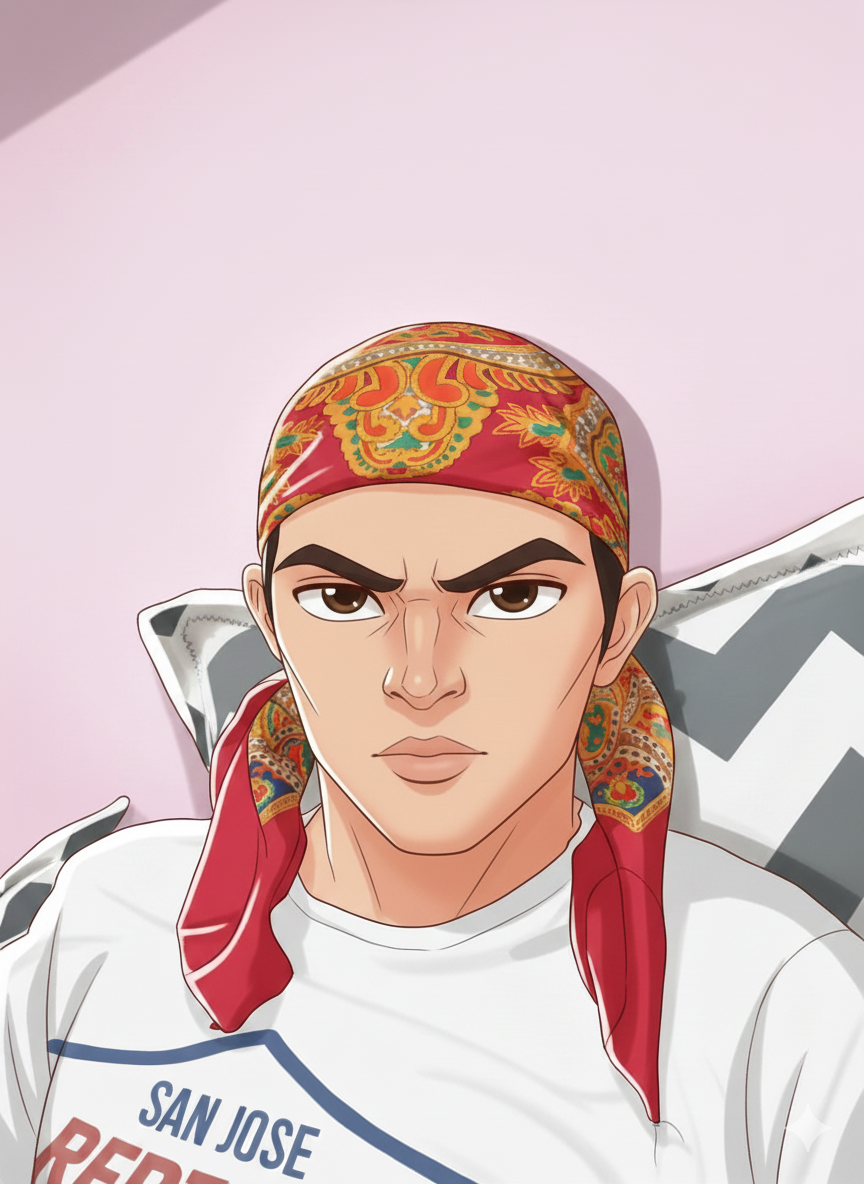
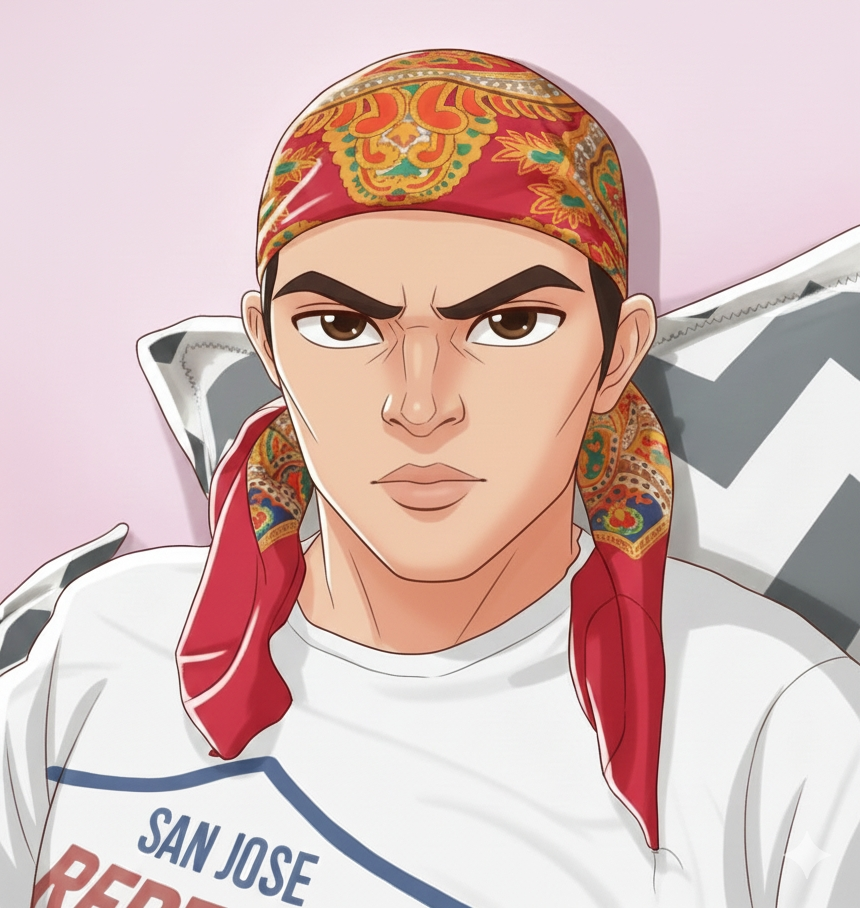
delet account section/footer

diff --git a/accounts.html b/accounts.html
@@ -50,46 +50,45 @@
 
     <article>
 
-    <nav class="d-flex align-items-center w-100 input-box navbar navbar-expand-md g-0">
+    <nav class="d-flex align-items-center input-box navbar navbar-expand-md g-0">
 
         <button class="navbar-toggler" type="button" data-bs-toggle="collapse" data-bs-target="#nav">
-      <span class="ti ti-menu-2 "></span>
-    </button>
+            <span class="ti ti-menu-2 mb-1"></span>
+        </button>
 
-        <button type="submit" class="border-0 bg-transparent"><i class="ti ti-search vx-fs-cus-1 me-3"></i></button>
+        <button type="submit" class="border-0 bg-transparent mt-1"><i class="ti ti-search vx-fs-4 ms-3 me-2"></i></button>
         <div class="collapse navbar-collapse" id="nav">
-            <input class="input-box border-0 me-auto" type="text" placeholder="Search [CTRL + K]">
+            <input class="input-box border-0 me-auto " type="text" placeholder="Search [CTRL + K]">
         </div>
         
-        
-        <ul class="list-unstyled d-flex align-items-center mb-1">
-            <li><a href="#"><i class="ti ti-language-hiragana vx-fs-cus-1 rounded-circle nav-icon"></i></a></li>
-            <li><a href="#"><i class="ti ti-sun vx-fs-cus-1 rounded-circle nav-icon"></i></a></li>
-            <li><a href="#"><i class="ti ti-layout-grid-remove vx-fs-cus-1 rounded-circle nav-icon"></i></a></li>
-            <li><a href="#"><i class="ti ti-bell vx-fs-cus-1 rounded-circle nav-icon"></i></a></li>
-            <li><a href="#"><img class="rounded-circle" width="39" height="39" src="assets/images/profile.jpg" alt=""></a></li>
-        </ul>
+        <ul class="list-unstyled d-flex align-items-center mb-1 mt-1 navigation">
+            <li><a href="#"><i class="ti ti-language-hiragana vx-fs-4 rounded-circle nav-icon"></i></a></li>
+            <li><a href="#"><i class="ti ti-sun vx-fs-4 rounded-circle nav-icon"></i></a></li>
+            <li><a href="#"><i class="ti ti-layout-grid-remove vx-fs-4 rounded-circle nav-icon"></i></a></li>
+            <li><a href="#"><i class="ti ti-bell vx-fs-4 rounded-circle nav-icon"></i></a></li>
+            <li><a href="#" class="ms-2"><img class="rounded-circle" width="42em" src="assets/images/profile.jpg" alt=""></a></li></li>
+        </ul>     
        
     </nav>
 
     <nav class="d-flex flex-column flex-lg-row mt-3 mt-lg-0">
-        <a href="account-form.html" class="accent-btn border-0 vx-fw-500 my-1 my-lg-3 vx-fs-2 d-flex flex-row align-items-center justify-content-center active">
+        <a href="account-form.html" class="accent-btn border-0 vx-fw-500 my-1 my-lg-3 vx-fs-2 d-flex flex-row align-items-center justify-content-center me-2 active">
             <i class="ti ti-users me-2"></i>
             Accounts
         </a>
-        <a href="security.html" class="accent-btn border-0 vx-fw-500 my-1 my-lg-3 vx-fs-2 d-flex flex-row align-items-center justify-content-center">
+        <a href="security.html" class="accent-btn border-0 vx-fw-500 my-1 my-lg-3 vx-fs-2 d-flex flex-row align-items-center justify-content-center me-2">
             <i class="ti ti-lock me-2"></i>
             Security
         </a>
-        <a href="bill&payment.html" class="accent-btn border-0 vx-fw-500 my-1 my-lg-3 vx-fs-2 d-flex flex-row align-items-center justify-content-center">
+        <a href="bill&payment.html" class="accent-btn border-0 vx-fw-500 my-1 my-lg-3 vx-fs-2 d-flex flex-row align-items-center justify-content-center me-2">
             <i class="ti ti-bookmark me-2"></i>
             Billing & Plans
         </a>
-        <a href="notifications.html" class="accent-btn border-0 vx-fw-500 my-1 my-lg-3 vx-fs-2 d-flex flex-row align-items-center justify-content-center">
+        <a href="notifications.html" class="accent-btn border-0 vx-fw-500 my-1 my-lg-3 vx-fs-2 d-flex flex-row align-items-center justify-content-center me-2">
             <i class="ti ti-bell me-2"></i>
             Notifications
         </a>
-        <a href="connections.html" class="accent-btn border-0 vx-fw-500 my-1 my-lg-3 vx-fs-2 d-flex flex-row align-items-center justify-content-center">
+        <a href="connections.html" class="accent-btn border-0 vx-fw-500 my-1 my-lg-3 vx-fs-2 d-flex flex-row align-items-center justify-content-center me-2">
             <i class="ti ti-link me-2"></i>
             Connections
         </a>
@@ -106,7 +105,7 @@
 
                         <a href="#" class="col-3 me-4 mt-4"><img class="rounded-2" width="100%" src="assets/images/profile.jpg" alt=""></a>
                         <div>
-                            <div class="d-flex w-100 col-9 mt-5">
+                            <div class="d-flex w-100 col-9 mt-4 mt-lg-5">
                                 <button class="vx-success-btn pt-2 pb-1 px-4 me-2 border-0"><h3 class="vx-fs-2">Upload New Photo</h3></button>
                                 <button class="vx-dismiss-btn pt-1 px-4 ms-2 border-0"><h3 class="vx-fs-2">Reset</h3></button>
                             </div>
@@ -261,8 +260,50 @@
             </form>
 
         </section>
+
+        <section class="container-fluid mt-4">
+            <div class="row px-3"><h3 class="vx-fs-3 my-4">Delete Account</h3></div>
+            <div class="row custom-clr-yellow px-3 mx-3 py-3 rounded-3">
+                <h4 class="text-warning vx-fs-cus-1 vx-fw-600">Are you sure you want to delete your account?</h4>
+                <span class="text-warning vx-fs-3 vx-fw-500">Once you delete your account, there is no going back. Please be certain.</span>
+            </div>
+            <div class="row">
+                <div class="col d-flex px-4">
+                    <div>
+                    <label for="tik"></label>
+                    <input class="me-2 mt-0 mb-5 form-check form-check-input g-0" id="tik" type="checkbox">
+                </div>
+                <div class="mt-4">
+                    <h4 class="text-danger vx-fs-cus-1">I confirm my account deactivation</h4>
+                    <span class="text-danger mt-2">Please confirm you want to delete account</span>
+                </div>
+                </div>
+            </div>
+            <div class="row col-10 col-lg-3 px-4 my-3 mb-4">
+                <button class="deactivate-btn vx-fs-3 vx-fw-500 rounded-2 border-0 p-2">
+                    Decativate Account
+                </button>
+            </div>
+        </section>
+
+
+        <footer class="d-flex justify-content-between mt-5">
+        <div class="d-flex vx-fs-3">
+            © 2025 , made with ❤ by
+        <a href="#" class="color-primary"> Pixinvent</a>
+        </div>
+
+        <div class="d-flex vx-fs-3">
+            <a href="#" class="ms-2 color-primary">License</a>
+            <a href="#" class="ms-2 color-primary"> More Themes</a>
+            <a href="#" class="ms-2 color-primary"> Documentation</a>
+            <a href="#" class="ms-2 color-primary">Support</a>
+        </div>
+    </footer>
     </article>
     
+    
+
     </main>
 
 </body>

diff --git a/sass/index.css b/sass/index.css
@@ -409,7 +409,7 @@ secondary-btn:hover i {
   color: #444150;
   border-radius: 7px;
   padding: 0.5rem 1rem;
-  border: 1px solid #abaab2;
+  border: 1px solid #e6e6e8;
   outline: 2.4px solid transparent;
   outline-offset: -2px;
   transition: 0.3s ease-in-out;
@@ -478,7 +478,7 @@ article {
 
 section {
   width: 100%;
-  border: 1px solid #abaab2;
+  border: 1px solid #e6e6e8;
   border-radius: 7px;
 }
 
@@ -489,11 +489,6 @@ section {
   background-color: white;
 }
 
-@media (min-width: 1000px) {
-  .navbar * {
-    min-width: 8vh;
-  }
-}
 @media (max-width: 600px) {
   .navbar * {
     margin-top: 2%;
@@ -501,4 +496,28 @@ section {
 }
 .navbar .input-box {
   padding: 0.25 1rem;
-}/*# sourceMappingURL=index.css.map */
+}
+
+.custom-clr-yellow {
+  background-color: #fff0e1;
+}
+
+.form-check-input {
+  transform: scale(0.7);
+  border-color: red;
+  outline: 1px solid transparent;
+}
+
+.form-check-input:checked {
+  background-color: #7368f0;
+  border-color: #7368f0;
+  outline: 1px solid transparent;
+}
+
+.deactivate-btn {
+  color: white;
+  background-color: #e64449;
+  padding: 0.5em 2em;
+}
+
+/* Complete fix for profile image stretching *//*# sourceMappingURL=index.css.map */

diff --git a/sass/_custom-styles.scss b/sass/_custom-styles.scss
@@ -41,7 +41,7 @@ article {
 
 section{
    width: 100%;
-   border: 1px solid #abaab2;
+   border: 1px solid #e6e6e8;
    border-radius: 7px;
 }
 
@@ -52,11 +52,6 @@ section{
    background-color: white;
 }
 
-@media (min-width:1000px){
-   .navbar *{
-      min-width: 8vh;
-   }
-}
 
 @media (max-width:600px){
    .navbar *{
@@ -67,3 +62,26 @@ section{
 .navbar .input-box{
    padding: 0.25 1rem;
 }
+
+.custom-clr-yellow{
+   background-color: #fff0e1;
+}
+
+.form-check-input{
+   transform: scale(0.7);
+   border-color: red;
+   outline: 1px solid transparent;
+}
+.form-check-input:checked{
+   background-color: #7368f0;
+   border-color: #7368f0; 
+   outline: 1px solid transparent;
+}
+
+.deactivate-btn{
+    color: white;
+    background-color: #e64449;
+    padding: 0.5em 2em;
+}
+
+/* Complete fix for profile image stretching */

diff --git a/sass/_presets.scss b/sass/_presets.scss
@@ -139,7 +139,7 @@ secondary-btn:hover i{
     color: #444150;
     border-radius: 7px;
     padding: 0.5rem 1rem;
-    border: 1px solid #abaab2;
+    border: 1px solid #e6e6e8;
     outline: 2.4px solid transparent;
     outline-offset: -2px;
     transition:0.3s ease-in-out;
